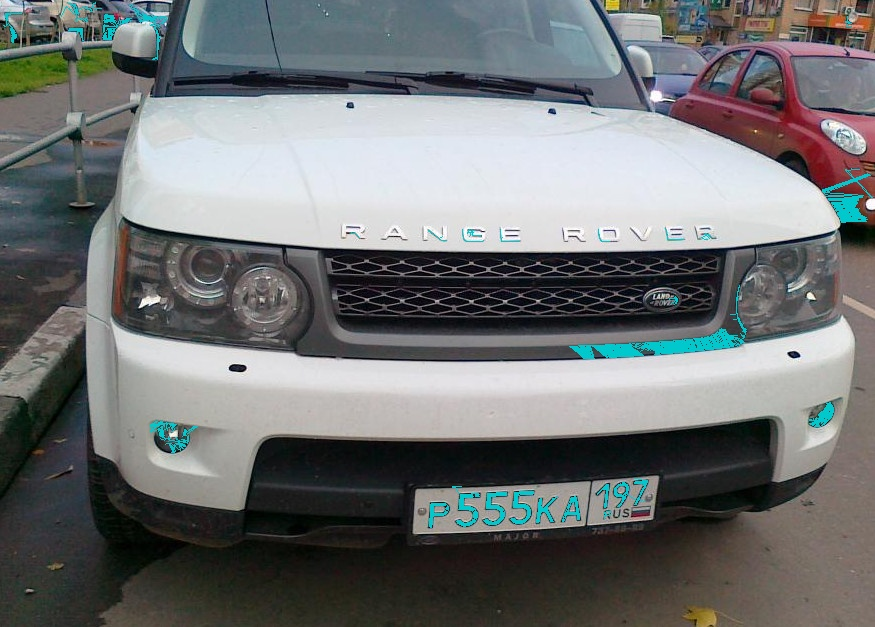
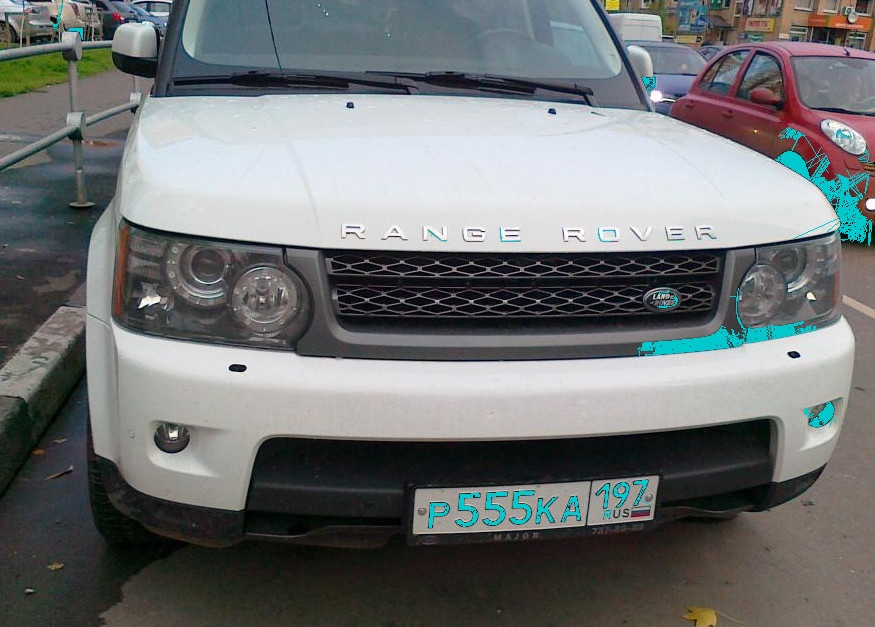
disable some filters and add new pair rule

diff --git a/SWT_lite.py b/SWT_lite.py
@@ -241,12 +241,12 @@ def FindComponents(gray, contour, swimage, debug_components=False, debug_compone
                     #and ((res['width'] * res['height']) * 0.15 < (len(res['points'])))
                     and (0.1 < (float(len(res['points']))/(res['width']*res['height'])) < 1)
                     #and ((res['height'] > 9) and (res['width'] > 3)) 
-                    #and (1/2.5 < res['width'] / res['height'] < 2.5)
+                    #and (1/3. < res['width'] / res['height'] < 3)
 
                     #and ((res['mean'] == 0) or (0 < (res['deviation']/res['mean']) < 1))
                     and (np.std(res['swvalues'])/np.mean(res['swvalues']) < 1)
                     and (VarianceFromRect((res['X'], res['Y']), (res['X2'], res['Y2']), gray) > 2000)
-                    and (1/2.5 < min(float(res['width'])/res['height'], float(res['height'])/res['width']) < 2.5)
+                    and (0.1 < min(float(res['width'])/res['height'], float(res['height'])/res['width']) < 1)
                     ):
                     #if True:#res['variance'] < 40:
                     components.append(res)
@@ -266,6 +266,7 @@ def PairFilter(components):
                 (c != c2) #and (c['width'] != 0 and c['height'] != 0
                 and (2/3. < c2['width']/c['width'] < 1.5)
                 and (2/3. < c2['height']/c['height'] < 1.5)
+                and (1/2. < np.mean(c['swvalues'])/ np.mean(c2['swvalues']) < 2)
                 ):
                 lettercandidats.append(c)
                 break
@@ -335,7 +336,7 @@ def FindLetters(gray, stage=work_stages['no'], oldser=None, dump_stages=False, n
         components = loadobj('components', oldser)
 
     if stage < work_stages['lettercandidats']:
-        print 'filtering letter candidats...'
+        print 'Search pairs...'
         lettercandidats = PairFilter(components)
         if dump_stages:
             dumpobj(lettercandidats, 'lettercandidats', curser)
